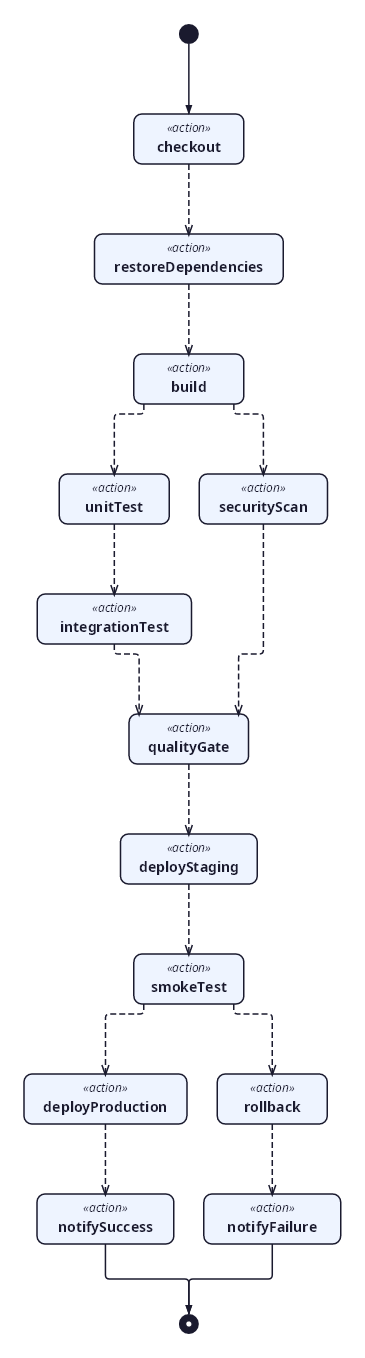
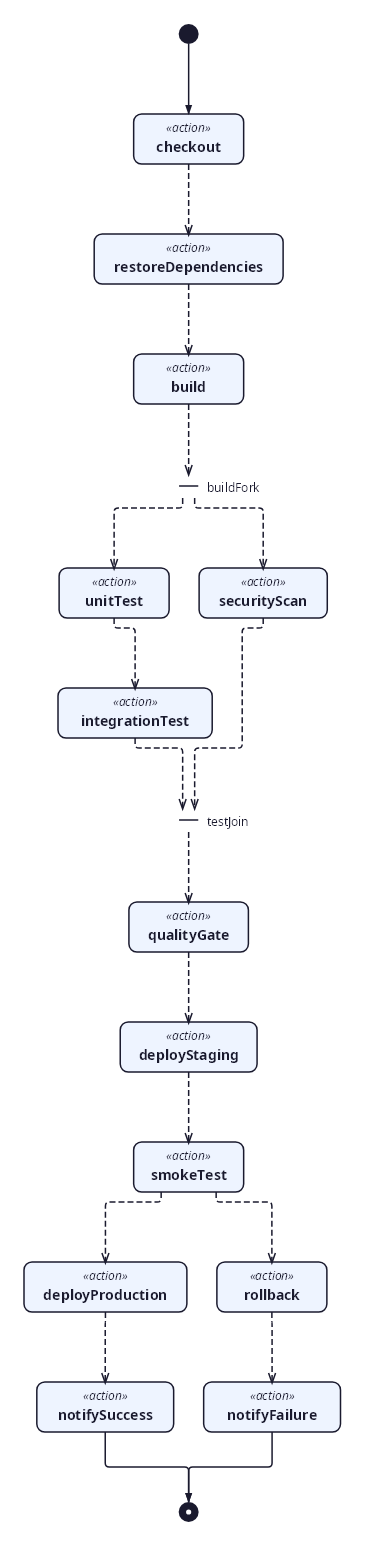
Add fork/join branch and compact idiom to pipeline gallery model
- 04-pipeline-action-flow.sysml: convert checkout/restoreDependencies to the
  compact 'action a; then b;' idiom, and replace the implicit dual-successor
  build branch with an explicit named fork/join pair (buildFork/testJoin)
  feeding parallel unitTest/securityScan branches that rejoin before
  qualityGate.
- Regenerate PipelineActionFlowView.svg/.png; visually verified per
  diagram-quality.md's Agent Checklist (horizontal-bar badges at the fork/join
  positions, no overlaps).
- Update the gallery README's caption for this example.
- Mark the Action Flow View control-node/successor AST correctness item in
  ROADMAP.md as delivered, listing the pentagon accept/send shape,
  swim-lanes, item-flow annotations, assignment/terminate/if/while/for-loop
  node AST support, and actionUsage-level nested action bodies as explicitly
  deferred future work.

diff --git a/ROADMAP.md b/ROADMAP.md
@@ -80,45 +80,33 @@ implemented first).
 and renderers; possibly `LayoutLabel`/compartment tweaks.
 **Visual gate:** a documented requirement/part renders its note and full compartments.
 
-### Action Flow View: control-node/successor AST correctness + fork/join/decision/merge shapes
+### Action Flow View: control-node/successor AST correctness + fork/join/decision/merge shapes — delivered
 
-Investigation (mirroring the pattern found in the State Transition View item above — same grammar
-family, same class of bug) found `actionBodyItem`'s combined shape has the identical AST gap, plus
-control nodes are entirely uncaptured today:
+**Delivered.** `AstBuilder.VisitActionBodyItem` now synthesizes a `SysmlTransitionNode` for both
+combined-shape `actionBodyItem` alternatives — `initialNodeMember (actionTargetSuccessionMember)*`
+and `(sourceSuccessionMember)? actionBehaviorMember (actionTargetSuccessionMember)*` — reusing the
+`MultiNodeCapture` sentinel introduced for the State Transition View fix, so the compact `action
+a1; then a2;` idiom and multiple attached successions now resolve correctly (previously both the
+node and its successor were silently dropped). `VisitMergeNode`/`VisitDecisionNode`/
+`VisitJoinNode`/`VisitForkNode`/`VisitAcceptNode`/`VisitSendNode` build minimal `SysmlFeatureNode`s
+with `FeatureKeyword` values `"merge"`/`"decide"`/`"join"`/`"fork"`/`"accept"`/`"send"`, giving
+anonymous control nodes (the dominant idiom in the OMG training corpus) a synthesized `$<keyword>
+<n>` internal name so their successions still wire correctly.
+`ActionFlowViewLayoutStrategy` now renders fork/join as a `LayoutBadge(BadgeShape.HorizontalBar)`
+and decision/merge as a `LayoutBadge(BadgeShape.Diamond)`; accept/send keep the rounded-rectangle
+box shape (no pentagon primitive exists in the referenced `DemaConsulting.Rendering` package) but
+now show their own `Keyword` instead of the hard-coded `"action"` text. Ordinary-action rendering
+is unchanged. The CI/CD Pipeline gallery model (`docs/gallery/models/04-pipeline-action-flow.sysml`)
+was extended with a named `fork`/`join` pair and the compact succession idiom, and regenerated.
 
-1. **Attached/implicit-source successions are silently dropped (both the action AND its successor).**
-   `actionBodyItem: (sourceSuccessionMember)? actionBehaviorMember (actionTargetSuccessionMember)*`
-   has no `AstBuilder` visitor, so the compact, common idiom `action a1; then a2;` (successor
-   implied by adjacency, no explicit `succession`/`first` statement) falls through to ANTLR's
-   default aggregation and loses both nodes — the same failure mode fixed for `stateBodyItem` in
-   the State Transition View branch.
-2. **Fork/join/decide/merge/accept/send control nodes are entirely unmodeled.** The grammar's
-   `actionNode: controlNode | sendNode | acceptNode | assignmentNode | terminateNode | ifNode |
-   whileLoopNode | forLoopNode` (`controlNode: mergeNode | decisionNode | joinNode | forkNode`) has
-   zero `AstBuilder` visitors — not even a bare `fork f1;` registers today, so every Action Flow
-   View renders every node as an identical rounded-rectangle "action" box regardless of its real
-   control-node kind, and successions through them are lost too (compounding problem 1).
-3. **Renderer shape primitives already exist for the two structural kinds, just unused.** The
-   `DemaConsulting.Rendering` package already defines `BadgeShape.HorizontalBar`/`VerticalBar`
-   (usable for fork/join thick bars) and `BadgeShape.Diamond` (usable for decision/merge) —
-   `ActionFlowViewLayoutStrategy` just never produces a `LayoutBadge` for anything but the
-   start/done markers today. There is **no pentagon primitive** in the Rendering package's
-   `BoxShape`/`BadgeShape` enums for a true UML accept/send action shape — adding one requires a
-   change to the separate `DemaConsulting.Rendering` package, out of scope for this repo/branch.
-
-**Scope (this branch):** `AstBuilder` (new handling for the `actionBehaviorMember
-(actionTargetSuccessionMember)*` combined shape, mirroring the state-body fix; new visitors for
-`controlNode`/`sendNode`/`acceptNode` registering a distinguishable node kind);
-`ActionFlowViewLayoutStrategy` (render fork/join as `LayoutBadge(BadgeShape.HorizontalBar |
-VerticalBar)`, decision/merge as `LayoutBadge(BadgeShape.Diamond)`, keeping accept/send as
-keyword-labelled rounded-rectangle boxes for now, pending a future pentagon primitive).
-**Explicitly deferred (separate future items, not this branch):** a true pentagon accept/send
+**Explicitly deferred (separate future items, not delivered here):** a true pentagon accept/send
 shape (needs a `DemaConsulting.Rendering` package change); swim-lanes via `LayoutBand`; item-flow
-edge annotations (no item-flow/payload capture exists in the AST yet); the Sequence View dynamics
-item below (different subsystem, separate branch).
-**Visual gate:** an action flow with a fork feeding two parallel actions that rejoin renders a
-thick bar in each direction; a guarded decision/merge renders diamonds; the compact `action a;
-then b;` idiom renders correctly with no dropped nodes.
+edge annotations (no item-flow/payload capture exists in the AST yet); `assignmentNode`/
+`terminateNode`/`ifNode`/`whileLoopNode`/`forLoopNode` AST support (still entirely unmodeled); an
+`actionUsage`-level (rather than `action def`-level) nested `actionBody` — `VisitActionUsage`
+still doesn't collect nested action-body children, so control nodes/successions nested inside a
+`action x : T { ... }` *usage* (as opposed to an `action def X { ... }` body) remain invisible;
+the Sequence View dynamics item below (different subsystem, separate branch).
 
 ### Sequence View dynamics
 

diff --git a/docs/gallery/README.md b/docs/gallery/README.md
@@ -113,8 +113,12 @@ SVG: [`svg/ElevatorStateTransitionView.svg`](svg/ElevatorStateTransitionView.svg
 
 ## 4. Action Flow View — CI/CD Pipeline
 
-Shows actions arranged top-to-bottom by the layered layout pipeline,
-with a start node, a done node, and a quality-gate branch and join.
+Shows actions arranged top-to-bottom by the layered layout pipeline, with a start node, a done
+node, and a quality-gate branch and join. The `build` step fans out through a named `fork`
+(rendered as a horizontal-bar badge) into parallel `unitTest`/`securityScan` branches that rejoin
+through a named `join` (also a horizontal-bar badge) before `qualityGate`. The `checkout` step
+uses the compact `action checkout; then restoreDependencies;` idiom instead of a standalone
+`first ... then ...;` succession statement.
 
 Model: [`models/04-pipeline-action-flow.sysml`](models/04-pipeline-action-flow.sysml) ·
 SVG: [`svg/PipelineActionFlowView.svg`](svg/PipelineActionFlowView.svg)
